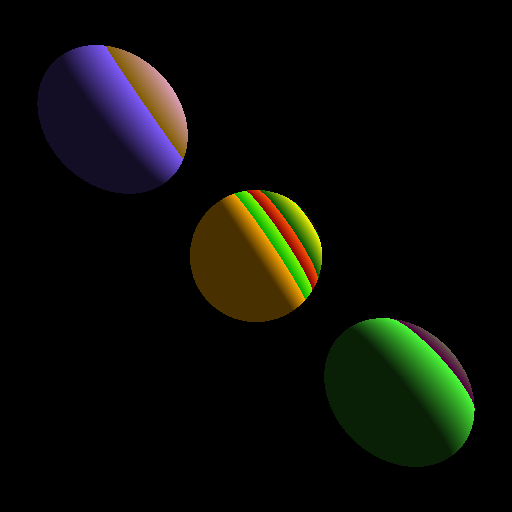
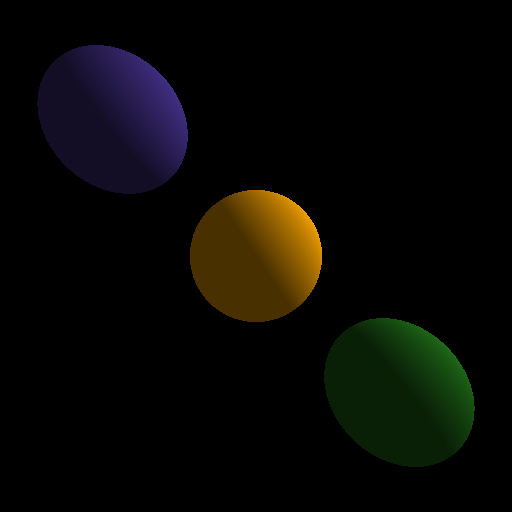
normalized vectors

Changed region(s): [[0.125, 0.0625, 0.375, 0.375], [0.6875, 0.625, 0.9375, 0.875], [0.4375, 0.375, 0.625, 0.625]]

diff --git a/raytracer/src/main/java/at/ac/univie/unet/a01638800/raytracer/phong/PhongShader.java b/raytracer/src/main/java/at/ac/univie/unet/a01638800/raytracer/phong/PhongShader.java
@@ -31,11 +31,14 @@ public class PhongShader {
         );
 
         Vector pointToLightVector = this.getPointToLightVector();
-        Vector pointToCameraVector = new Vector();
-        Vector reflectionVector = normalVector.subtractVector(pointToLightVector);
+        pointToLightVector.normalize();
 
+        Vector pointToCameraVector = new Vector();
+
+        Vector reflectionVector = normalVector.subtractVector(pointToLightVector);
         reflectionVector = reflectionVector.scaleByFactor(pointToLightVector.dotProduct(normalVector));
         reflectionVector = reflectionVector.scaleByFactor(2.0);
+        reflectionVector.normalize();
 
         Color[] colorComponents = this.computeColorComponents(pointToLightVector, pointToCameraVector, reflectionVector);
 
